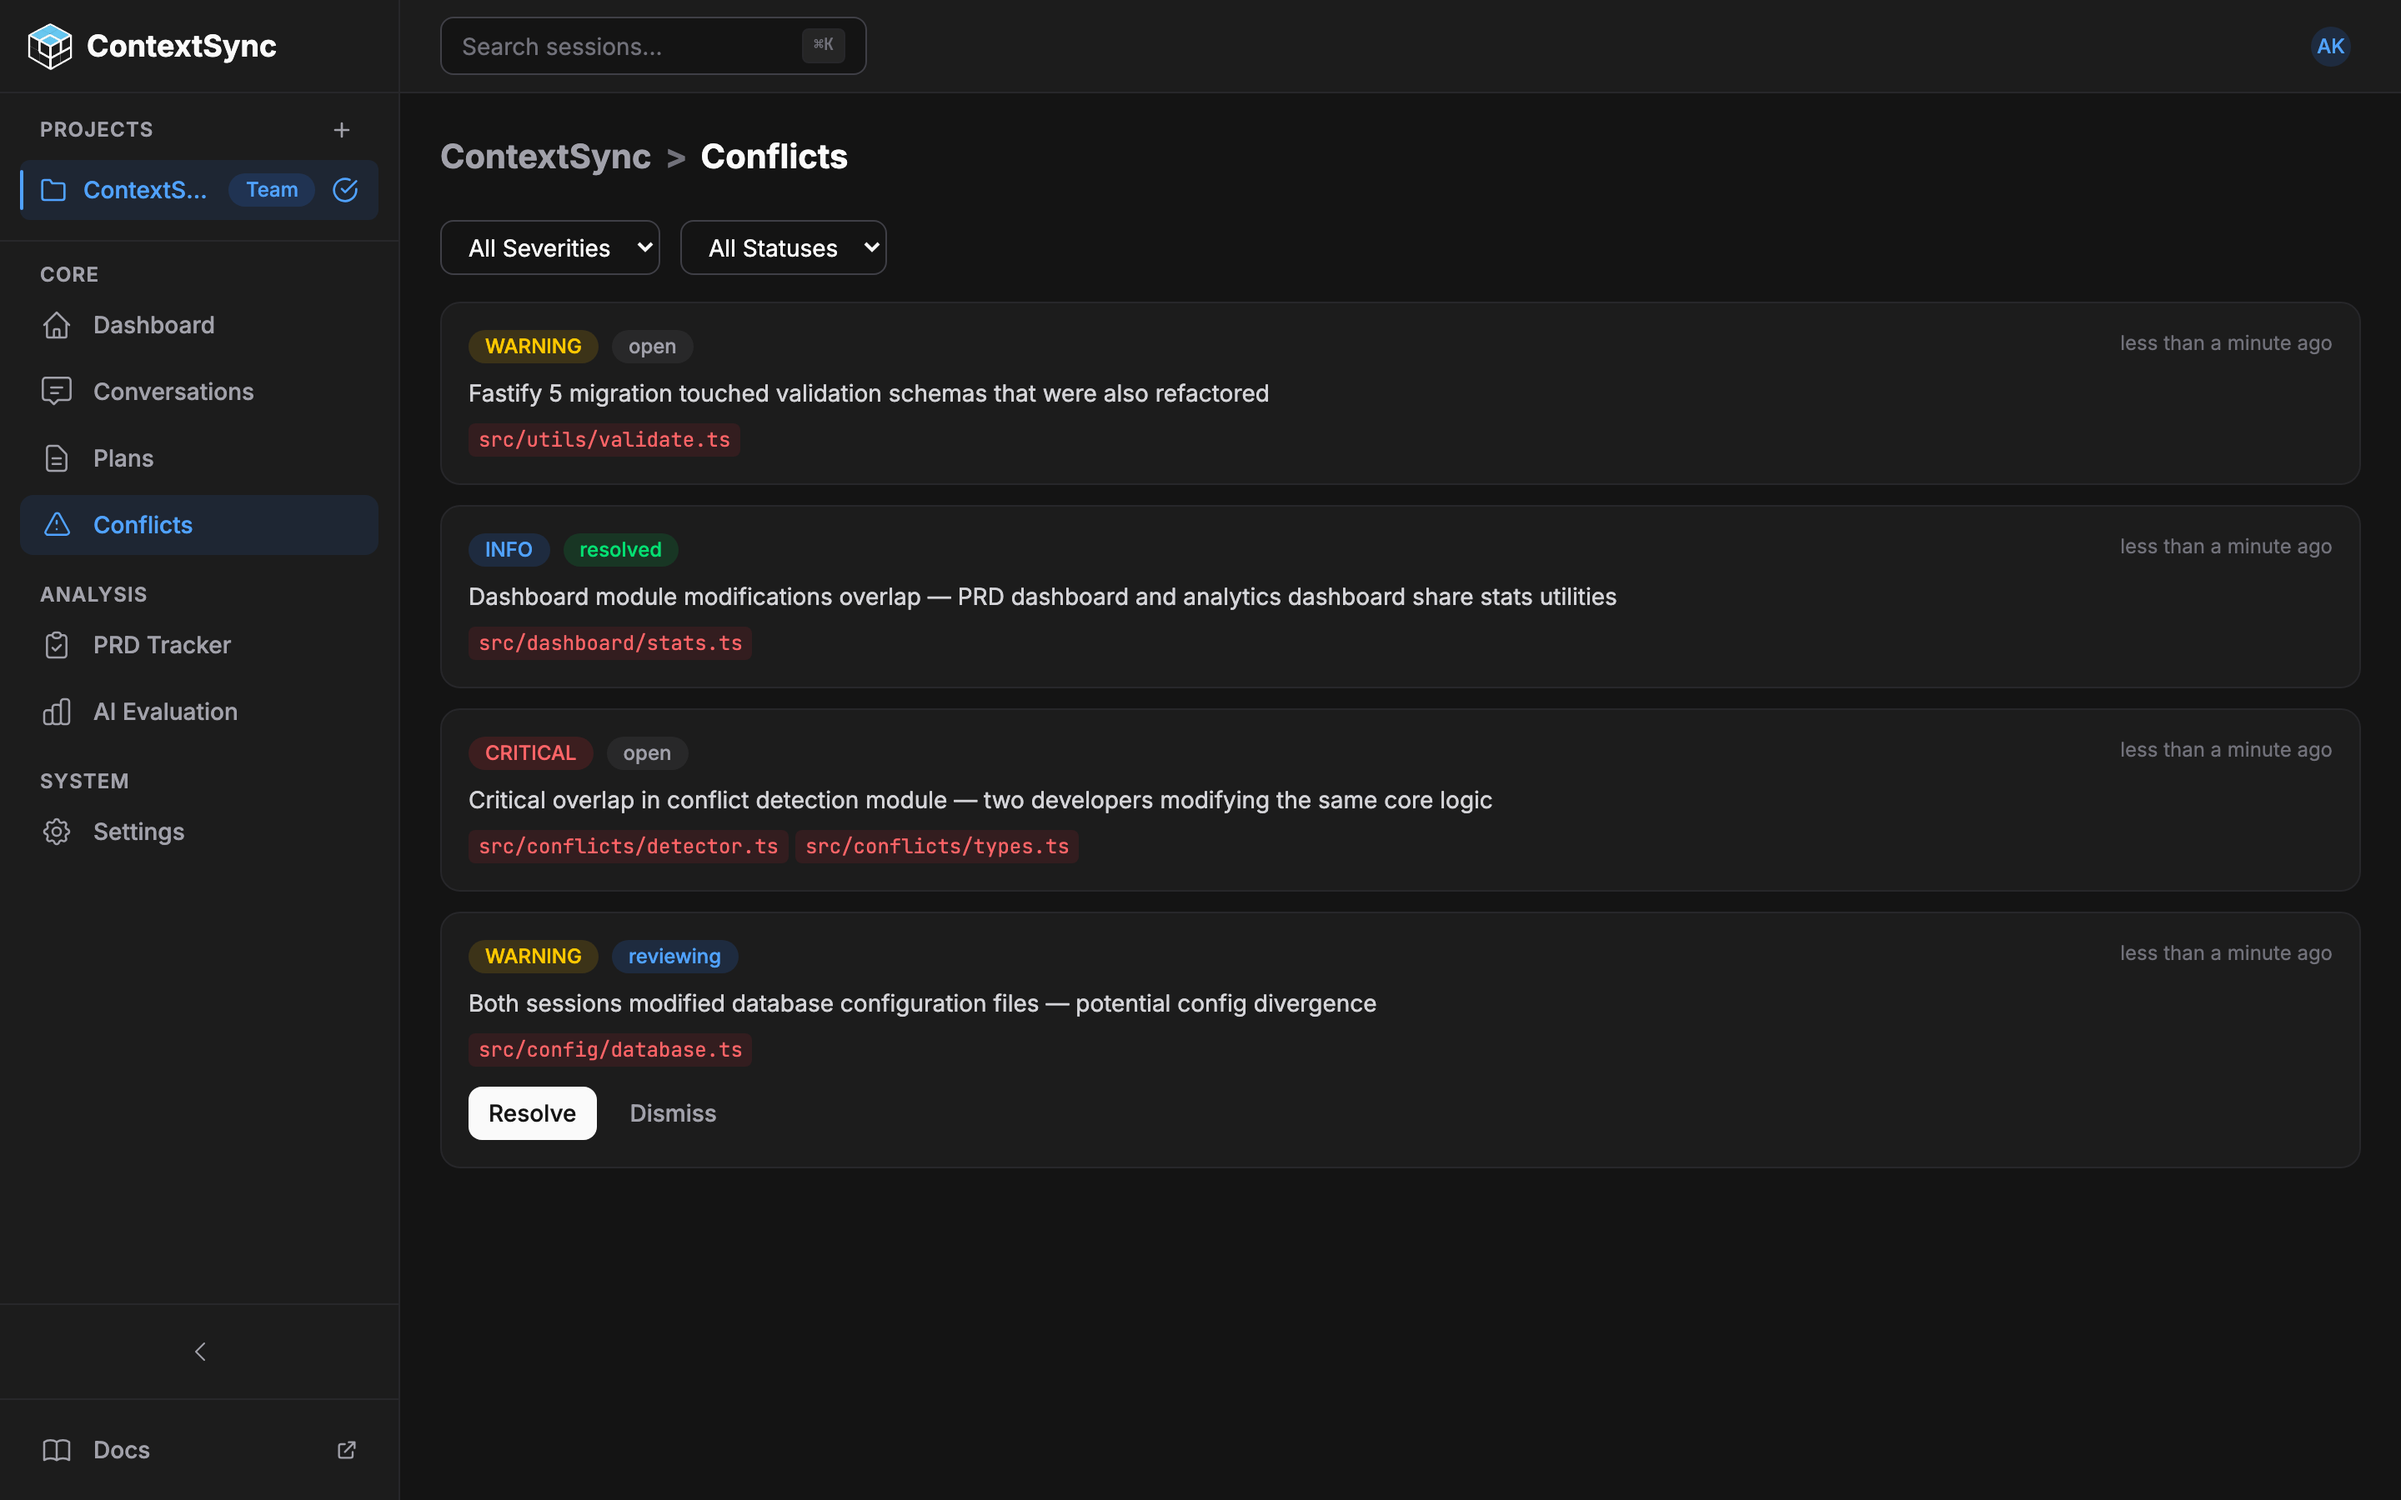
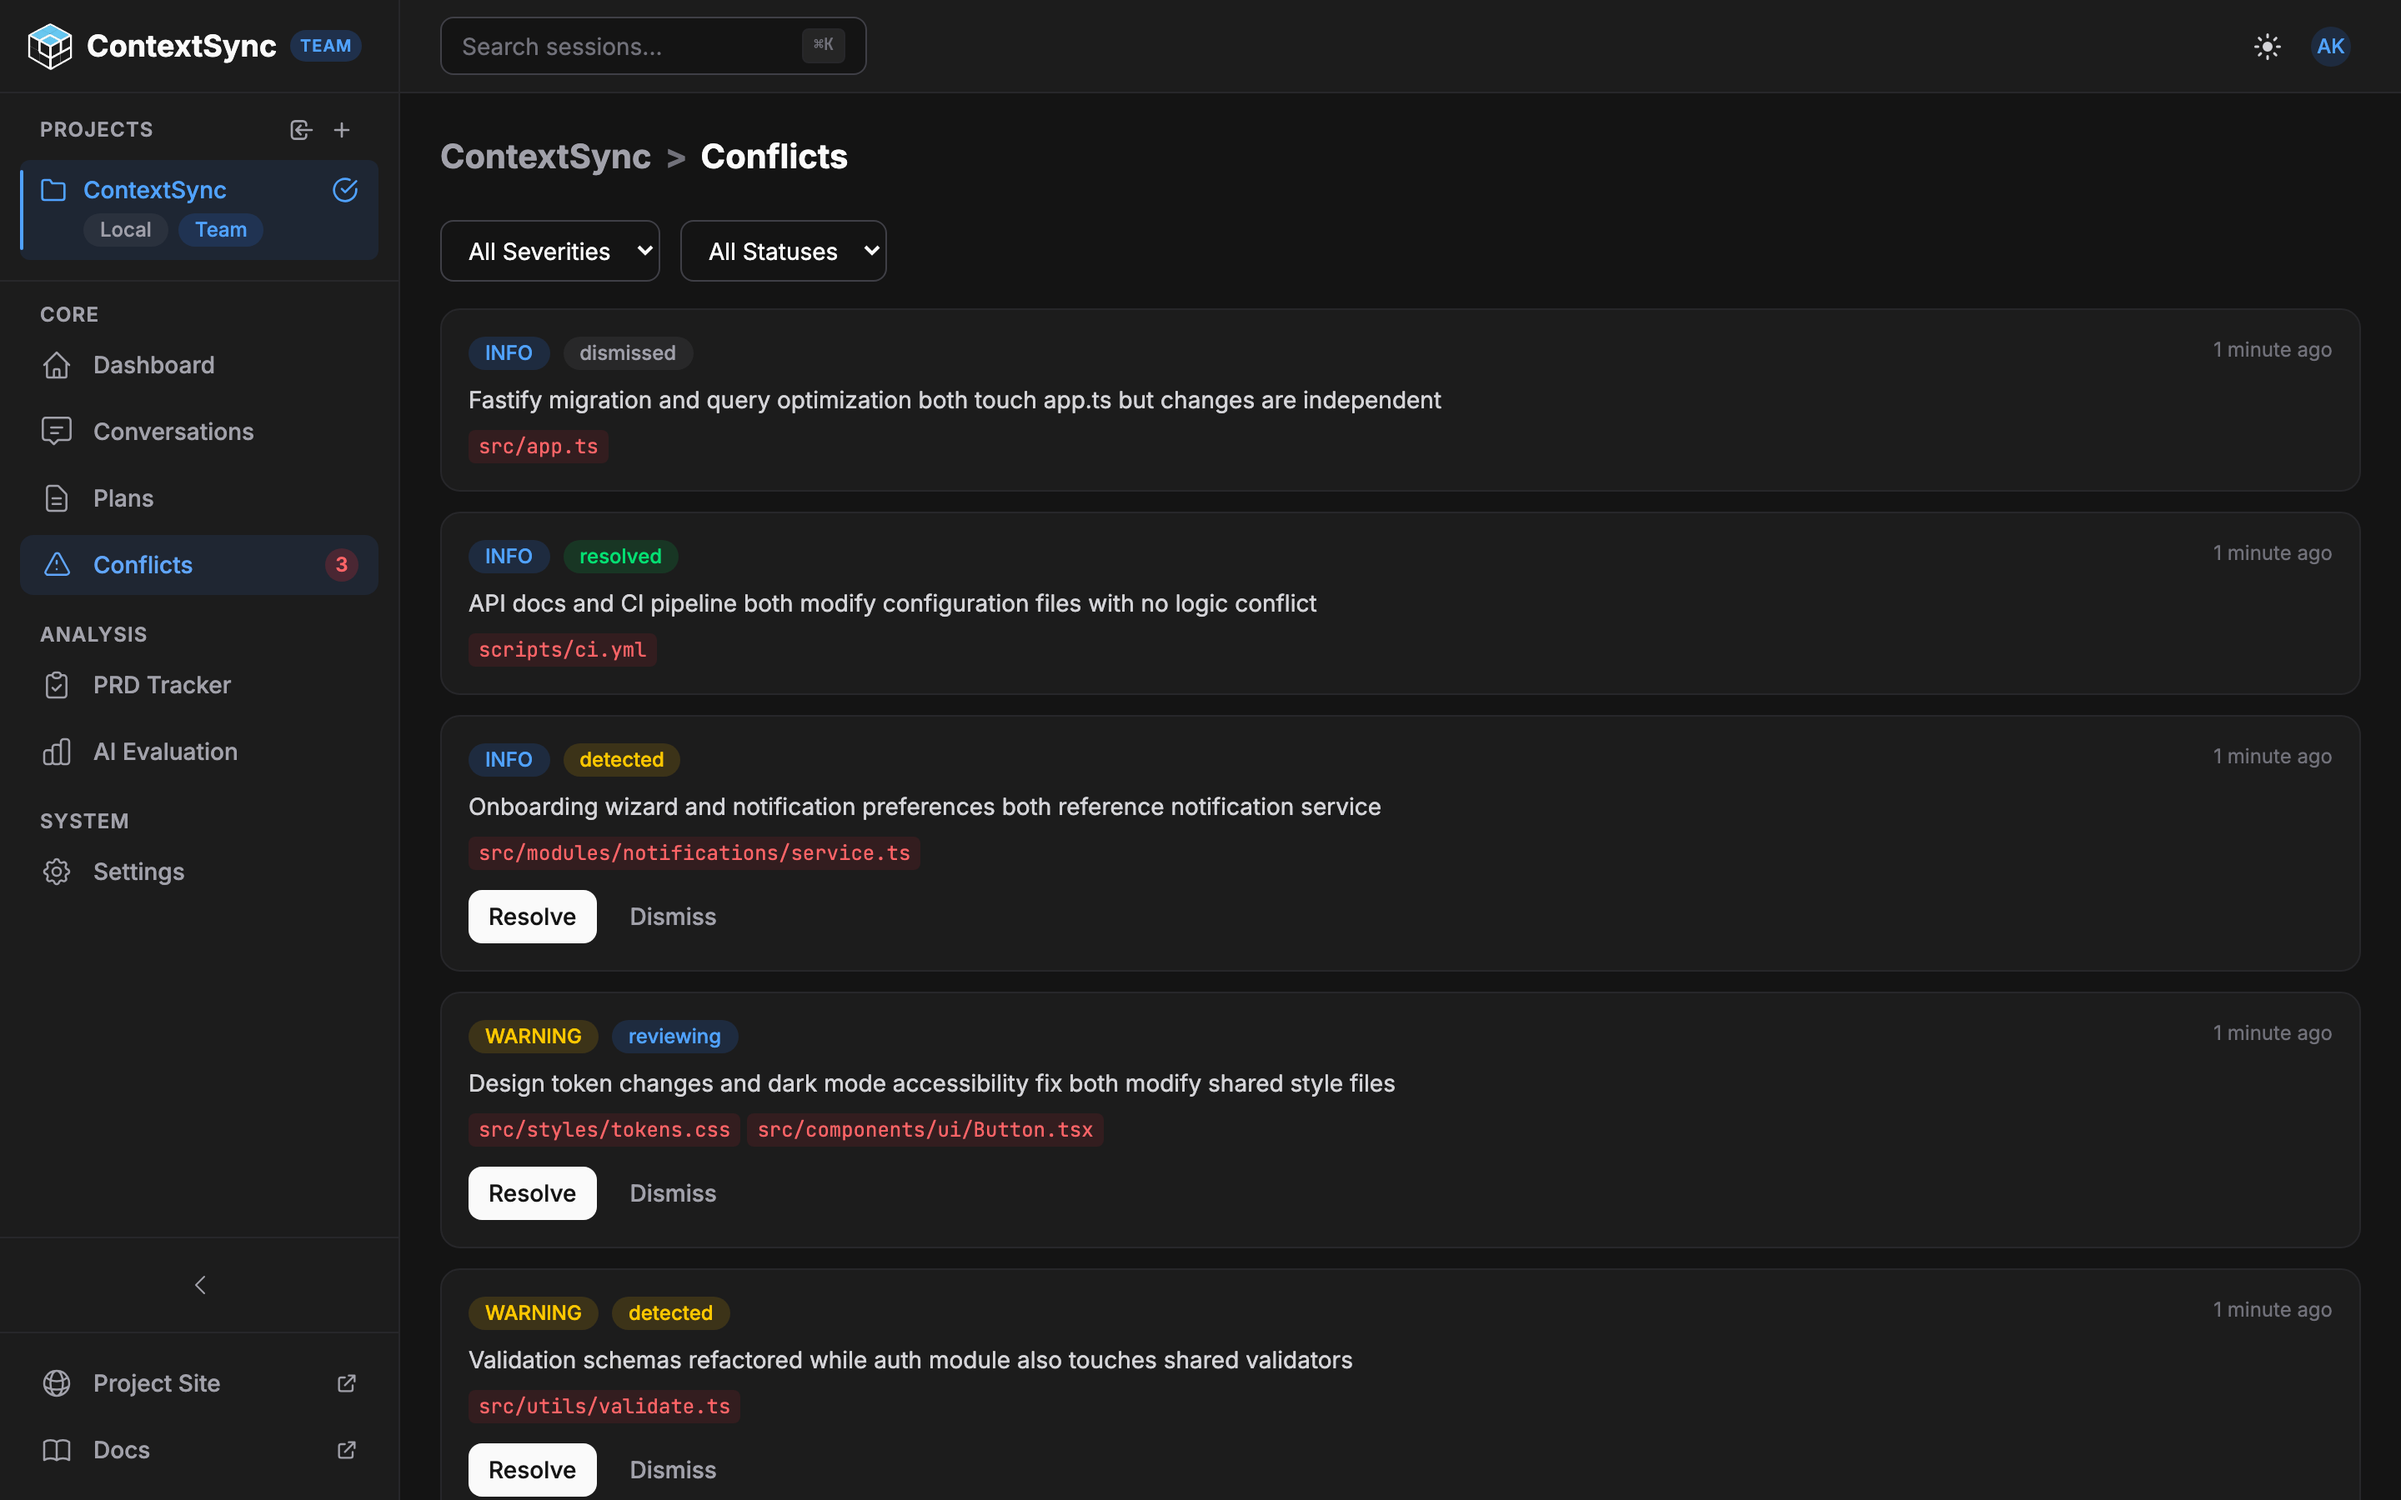
chore: 스크린샷 14장 전면 교체 (보강된 데모 데이터 기반)
- Playwright 자동 캡처로 14장 최신 UI 스크린샷 생성
- 6명 사용자, 18 세션, 8 충돌 등 풍성한 데모 데이터 반영
- capture-screenshots.ts: plans-view, admin-panel 출력 경로를 screenshots/로 통일

diff --git a/scripts/capture-screenshots.ts b/scripts/capture-screenshots.ts
@@ -343,7 +343,7 @@ test.describe('Marketing Screenshots', () => {
     await page.waitForTimeout(3000);
 
     await page.screenshot({
-      path: join(OPTIONAL_DIR, 'admin-panel.png'),
+      path: join(OUTPUT_DIR, 'admin-panel.png'),
       fullPage: false,
     });
   });
@@ -356,7 +356,7 @@ test.describe('Marketing Screenshots', () => {
     await page.waitForTimeout(3000);
 
     await page.screenshot({
-      path: join(OPTIONAL_DIR, 'plans-view.png'),
+      path: join(OUTPUT_DIR, 'plans-view.png'),
       fullPage: false,
     });
   });
